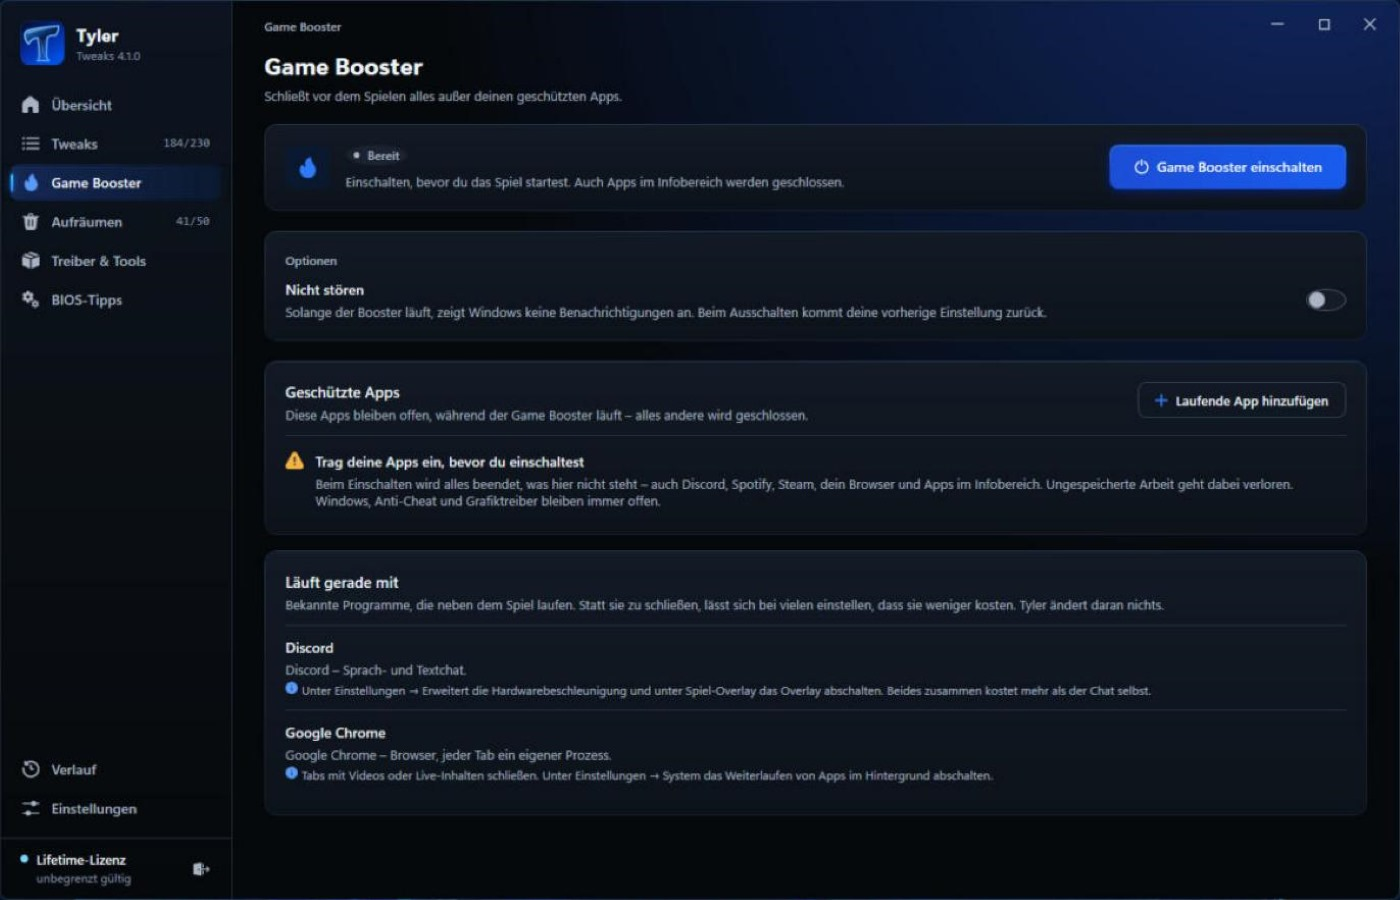
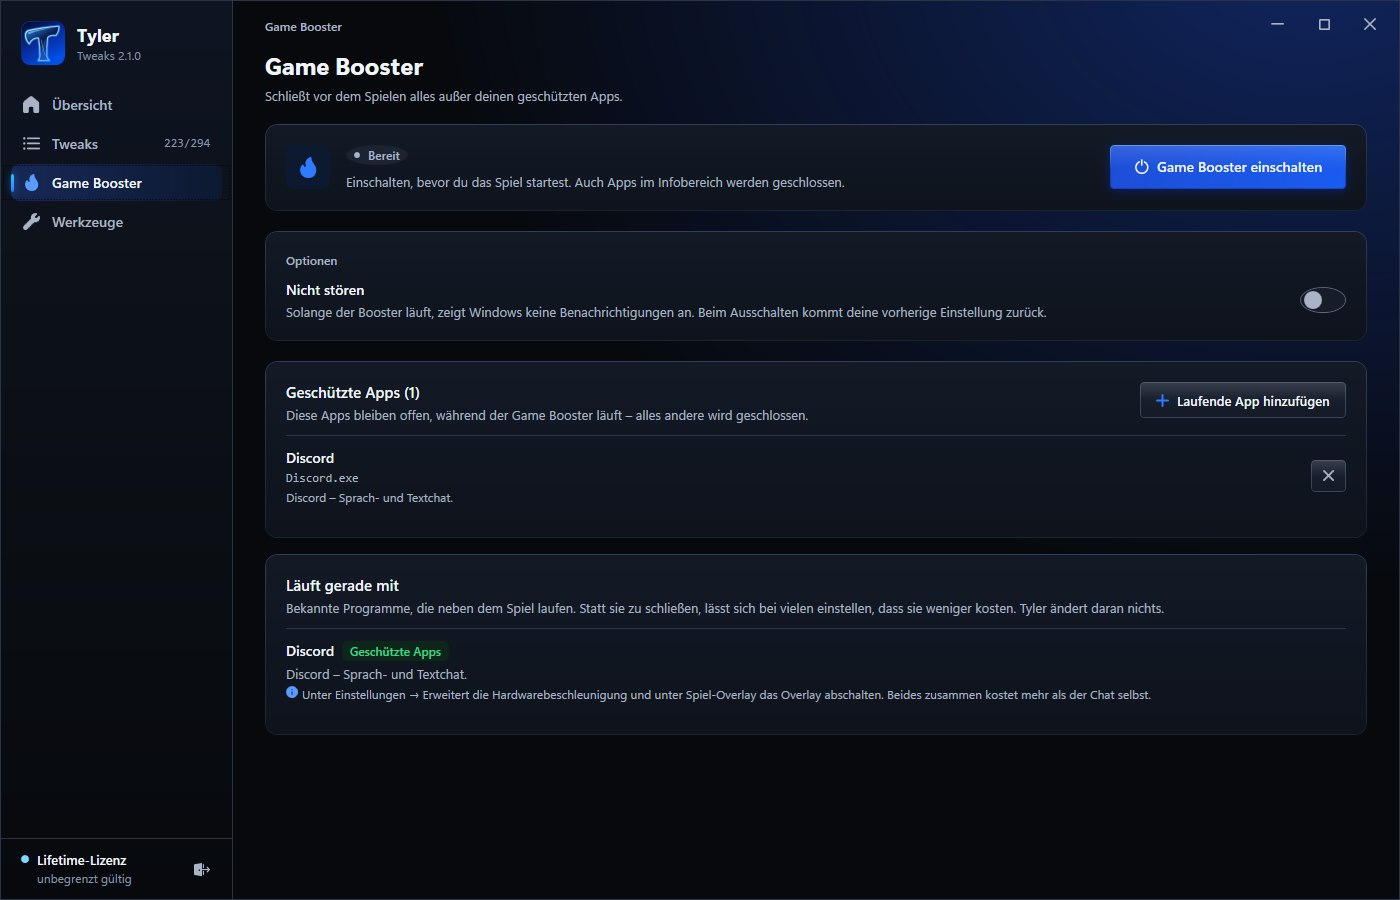
Startseite: neue Galeriebilder der App 2.1.0
Sieben echte Aufnahmen der aktuellen App in 1400x900: Übersicht, Tweaks
(System › Allgemein), Presets mit Tyler Owner, Game Booster, Aufräumen,
Reparatur (statt des entfernten PC-Checks) und BIOS-Tipps. Texte dazu
an den neuen Aufbau angepasst.

diff --git a/index.html b/index.html
@@ -584,23 +584,23 @@
           <figure class="app-demo" id="app-demo">
             <div class="app-demo-bilder">
               <img class="ist-aktiv" src="bilder/app-1-uebersicht.jpg" width="1400" height="900" loading="lazy"
-                   alt="Übersicht der Tweak App: Score 100 von 100, 184 von 230 Tweaks aktiv, Live-Werte von CPU und Grafikkarte"
+                   alt="Übersicht der Tweak App: Score 95 von 100, 223 von 294 Tweaks aktiv, Live-Werte von CPU und Grafikkarte"
                    data-text="Übersicht: Score, Live-Werte und deine Absicherung auf einen Blick">
               <img src="bilder/app-2-tweaks.jpg" width="1400" height="900" loading="lazy"
-                   alt="Netzwerk-Tweaks mit Schaltern, Einstufung und kurzer Erklärung"
-                   data-text="Jeder Tweak ein Schalter, mit Einstufung und Erklärung in einfachen Worten">
+                   alt="Tweaks unter System › Allgemein, links die Kategorien von System bis Overlays, jeder Tweak mit Schalter und Erklärung"
+                   data-text="Jeder Tweak ein Schalter, sortiert von System über CPU und GPU bis Overlays">
               <img src="bilder/app-3-presets.jpg" width="1400" height="900" loading="lazy"
-                   alt="Presets: Gaming, Privatsphäre, Schneller Start und Aufgeräumtes Windows"
-                   data-text="Presets: ganze Bündel mit einem Klick an und wieder zurück">
+                   alt="Presets und Profile: das Preset Tyler Owner und eigene Profile"
+                   data-text="Tyler Owner: die Einstellungen des Entwicklers mit einem Klick, dazu eigene Profile">
               <img src="bilder/app-4-booster.jpg" width="1400" height="900" loading="lazy"
                    alt="Game Booster mit geschützten Apps und Hinweisen zu laufenden Programmen"
                    data-text="Game Booster: schließt vor dem Spielen alles Unnötige">
               <img src="bilder/app-5-aufraeumen.jpg" width="1400" height="900" loading="lazy"
                    alt="Aufräumen: Temp-Dateien und Browser-Cache, auf Wunsch jede Woche automatisch"
-                   data-text="Aufräumen: Autostart, Dienste, Apps, Temp-Dateien und Cache">
-              <img src="bilder/app-6-pc-check.jpg" width="1400" height="900" loading="lazy"
-                   alt="PC-Check unter Treiber &amp; Tools: Nur ein Speicherriegel, der Arbeitsspeicher läuft im Single-Channel"
-                   data-text="PC-Check: findet, was außerhalb von Windows Leistung kostet">
+                   data-text="Aufräumen: Programme deinstallieren, Temp-Dateien und Browser-Cache">
+              <img src="bilder/app-6-reparatur.jpg" width="1400" height="900" loading="lazy"
+                   alt="Reparatur unter Werkzeuge: prüft, was andere Optimierungsprogramme verstellt haben, und listet jede Prüfung auf"
+                   data-text="Reparatur: setzt zurück, was andere Tweak-Programme verstellt haben">
               <img src="bilder/app-7-bios.jpg" width="1400" height="900" loading="lazy"
                    alt="BIOS-Tipps für das erkannte Mainboard mit Menüpfaden"
                    data-text="BIOS-Tipps: wo die Einstellungen in deinem Mainboard stehen">
